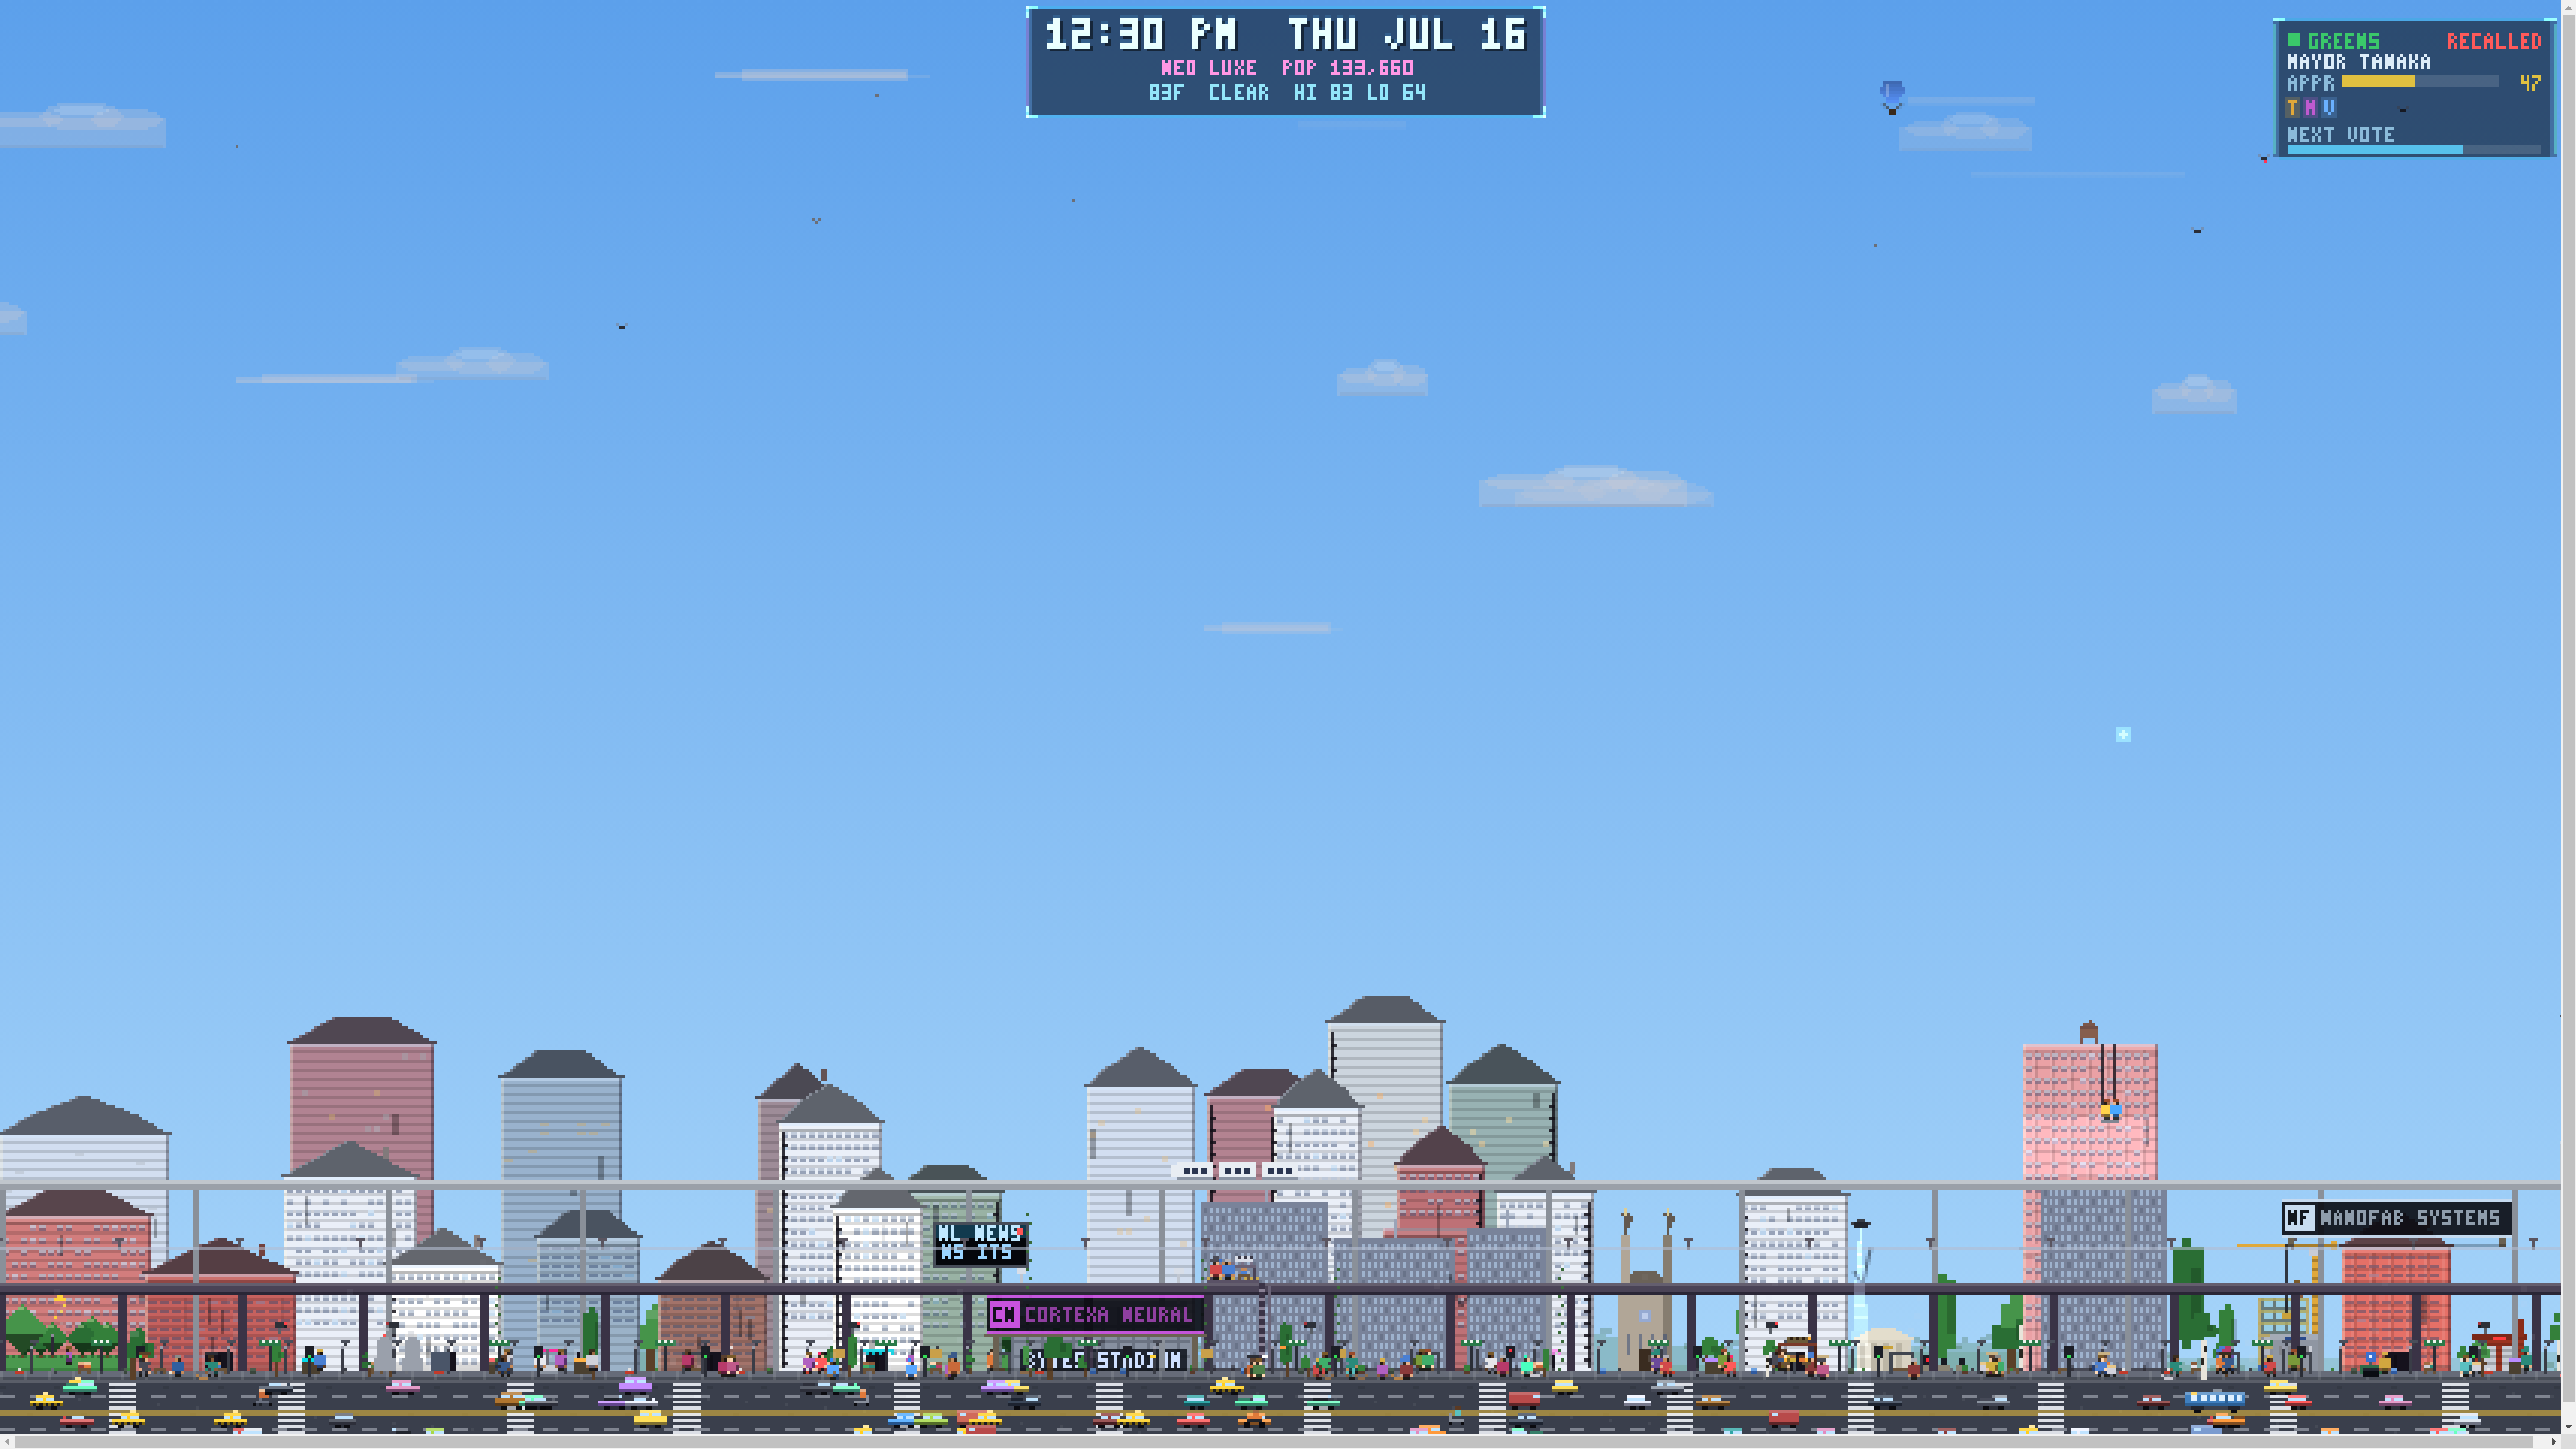
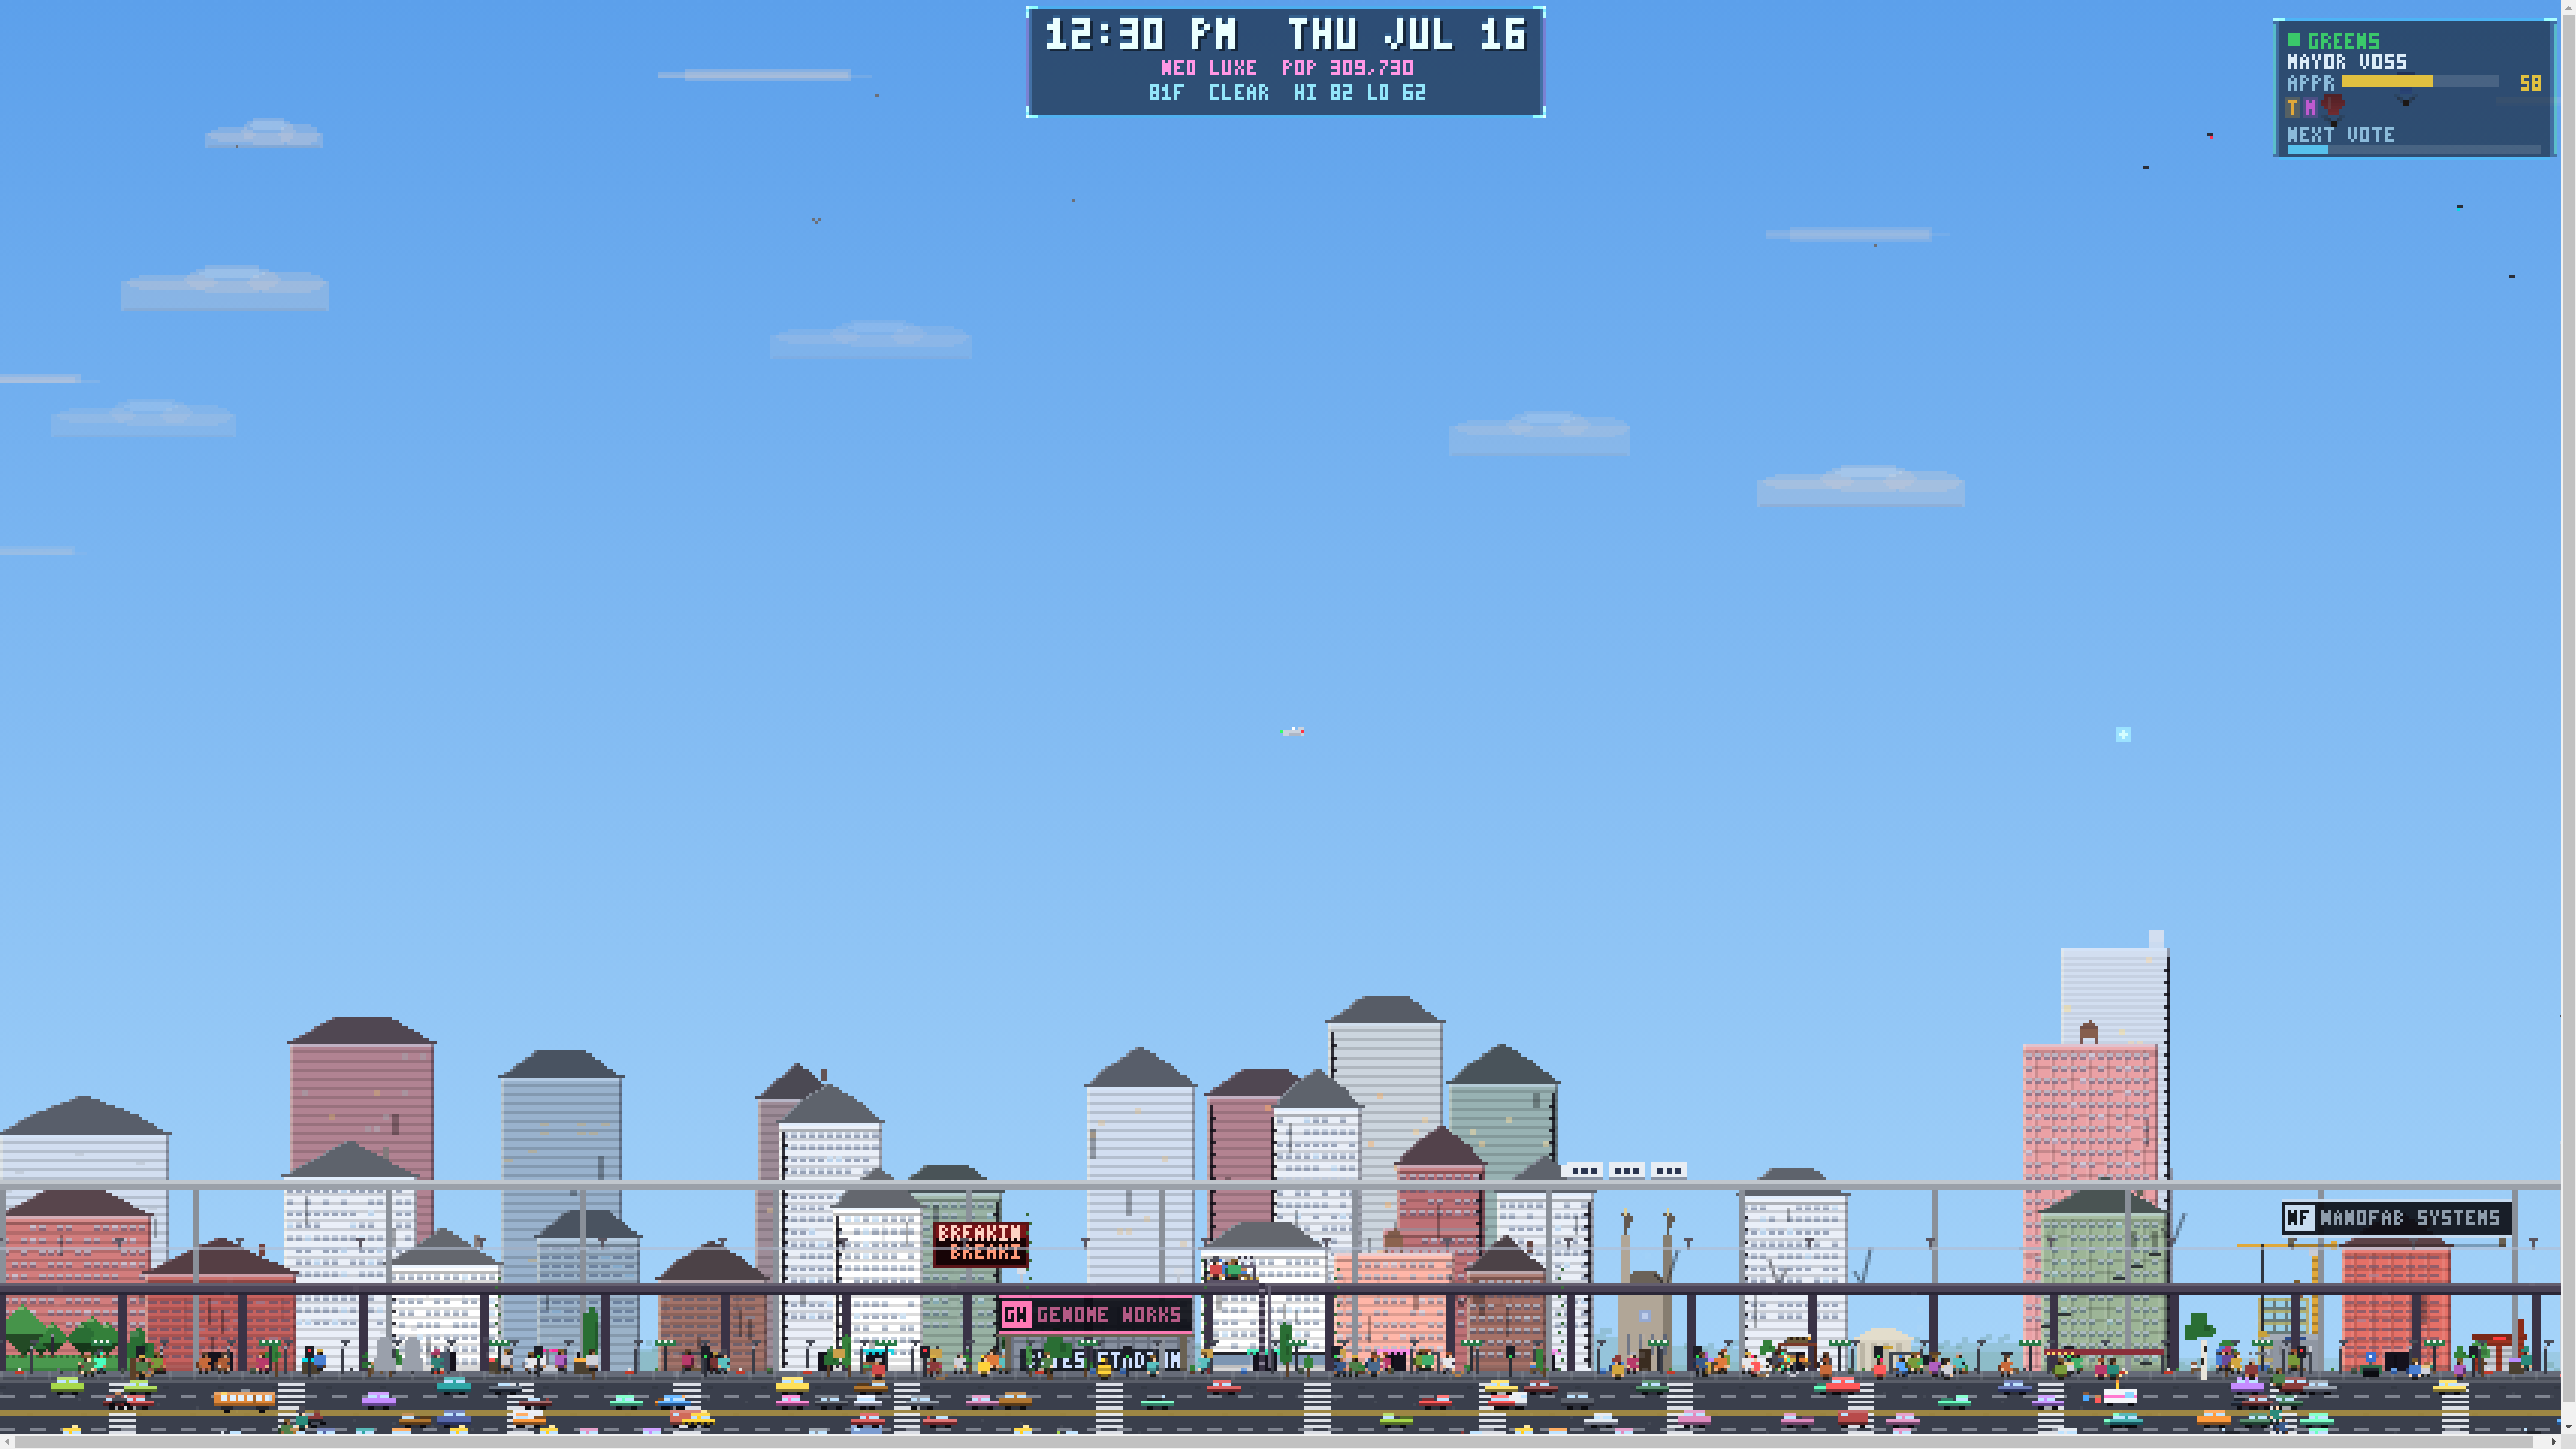
Buildings B1 BLEND: modern downtown core inside the New England town
Finding: the engine adapts architecture to location, and Norwich CT -> newengland ->
the WHOLE city was reskinned colonial (brick/cream/sage + pitched roofs on all bh<54),
which is why roofs repeated AND why dayMat/heroes were switched off at Nick's location.

Nick chose 'blend both':
- neColonial gate = (NE && not downtown && not entertainment): the colonial reskin +
  pitched roofs now apply to the TOWN districts only. Downtown + entertainment stay a
  modern glass core (dayMat + heroes + varied modern crowns) even in New England.
- hero gate no longer excludes NE; downtown is a modern core everywhere.
- Added ?probe=hero (harness) + HEROES console route to locate heroes/crowns precisely.

Exempting downtown/entertainment drops one r() per such building -> the city layout
intentionally re-rolls (expected for the look change). Verified: downtown day/night
(glass towers, deco/blade/step heroes w/ gilded cornices, neon night) + qml sweep
(34) SWEEP_OK + perf 9.2ms.

Claude-Session: https://claude.ai/code/session_01Fcpq7p4KAqg44eJBRLN5J2

diff --git a/desktop/renderer/city.js b/desktop/renderer/city.js
@@ -2029,8 +2029,12 @@ function makeLayer(seed,y0,baseHMin,baseHMax,layerK){
     var bseed=(r()*1e9)>>>0, winHue=(r()*winPal.length)|0;
     // REGION: New England reskins the walls to a colonial palette (barely any neon accent), and
     // marks light-walled builds as wood clapboard. Pitched roofs are chosen below.
+    // BLEND (Nick 2026-07-17): the colonial reskin applies to the TOWN districts only — the downtown +
+    // entertainment core stays a MODERN glass-tower city (heroes/landmarks/material colour) even in New
+    // England. So Norwich reads as brick-and-steeple neighbourhoods around a real metropolis skyline.
+    var neColonial=(REGION==="newengland" && d.name!=="downtown" && d.name!=="neon");
     var neClap=false, nePitch=false, accMix=(d.brick?0.06:0.10);
-    if(REGION==="newengland"){
+    if(neColonial){
       var nw=NE_WALLS[(r()*NE_WALLS.length)|0]; base=[nw[0],nw[1],nw[2]];
       neClap=(nw[0]+nw[1]+nw[2])>430;                        // light walls → wood clapboard siding
       accMix=0.03;                                           // colonial colours are muted
@@ -2059,9 +2063,15 @@ function makeLayer(seed,y0,baseHMin,baseHMax,layerK){
     // ---- CROWN from this district's palette (no spindly tops on short buildings) ----
     var crown=d.crowns[(r()*d.crowns.length)|0];
     if(bh<30 && (crown==="spire"||crown==="antenna"||crown==="blade")) crown=(r()<0.5?"flat":"tank");
-    if(REGION==="newengland" && bh < 54*KSP && crown!=="watertower"){  // low & mid-rise wear NE pitched roofs; tall
+    if(neColonial && bh < 54*KSP && crown!=="watertower"){  // low & mid-rise wear NE pitched roofs; tall
       var pr=(bseed>>>4)%3; crown=(pr===0?"gable":(pr===1?"gambrel":"hip")); nePitch=true;  // towers stay modern; brick
     }                                                                                       // midrises keep a wooden water tank
+    // ---- HERO / SIGNATURE TOWER: a rare, very tall downtown tower becomes a skyline LANDMARK — a guaranteed
+    //      ornate crown + a premium accent (beacon + crown trim). Chosen by a bseed HASH (no r() → the whole
+    //      city layout stays byte-stable). A handful per city anchor the skyline as focal points. ----
+    var heroK=((bseed*2246822519)>>>0)/4294967296;
+    var hero=(d.name==="downtown" && bh>=62*KSP && heroK<0.24);   // downtown is a modern core everywhere (incl. NE blend)
+    if(hero) crown=["deco","spire","step","blade"][(bseed>>>13)%4];   // ornate crowns anchor the skyline
     // ---- WINDOW SYSTEM from this district's palette ----
     var winLayout=d.layouts[(r()*d.layouts.length)|0];
     if(typeof FORCELAYOUT!=='undefined'&&FORCELAYOUT) winLayout=FORCELAYOUT;   // TEST hook: pin every building's window layout (harness ?layout=ribbon)
@@ -2069,7 +2079,8 @@ function makeLayer(seed,y0,baseHMin,baseHMax,layerK){
             segs:segs, crown:crown, winLayout:winLayout, topW:topW, topDx:topDx,
             c: mixc(base, acc, accMix), accent:acc, accent2:acc2, winP:winPal, winHue:winHue,
             glass:((winLayout==="corp"||winLayout==="ribbon")&&!(d.brick||neClap||nePitch)),   // reflective glass tower
-            dayMat:(REGION==="newengland"?null:dayMatFor(d.name,bseed)),   // this building's DAYTIME material colour (NE keeps colonial palette)
+            hero:hero,   // signature landmark tower (ornate crown + premium beacon/trim)
+            dayMat:(neColonial?null:dayMatFor(d.name,bseed)),   // DAYTIME material colour (colonial town keeps NE_WALLS; modern core gets it)
             nePitch:nePitch, clap:neClap,
             win:[], st:[], gl:[], roof:[],
             ledge:r()<d.ledge, ledC:(r()*NEON.length)|0,
@@ -3476,6 +3487,18 @@ function drawLayer(g,layer,L,now,fx,hol,haze){
     }
     var tX=bx+b.topDx, tW=b.topW;                            // top-segment (roof features attach here)
     drawCrown(g,b.crown,tX,top,tW,col,b.accent,L,now,night);
+    // HERO / SIGNATURE TOWER premium: a gilded cornice band under the ornate crown + a soft apex beacon at
+    // night → the tower reads as a deliberate skyline landmark, day and night.
+    if(b.hero && (layer===near||layer===mid)){
+      var hcC=mixc(b.accent,[255,228,150],0.5);                                   // gilded accent
+      g.fillStyle=rgba(hcC,(night>0.4?0.6:0.30*dayLit+0.08)); g.fillRect(tX,top,tW,1);       // crown-base cornice
+      g.fillStyle=rgba(hcC,(night>0.4?0.3:0.14*dayLit));      g.fillRect(tX,top+2,tW,1);      // a second, fainter trim line
+      if(night>0.35){ var hbp=0.5+0.5*Math.sin(now*0.0028+bx);                    // apex beacon — a pulsing landmark light
+        g.globalCompositeOperation="lighter";
+        g.fillStyle=rgba(b.accent2,0.7*hbp*night); g.fillRect(tX+(tW>>1)-1,top-1,3,2);
+        g.fillStyle=rgba(b.accent2,0.3*hbp*night); g.fillRect(tX+(tW>>1)-2,top-2,5,1);
+        g.globalCompositeOperation="source-over"; }
+    }
     // rooftop mechanicals (flat/step tops)
     for(var ri=0;ri<b.roof.length;ri++){ var rs=b.roof[ri], rX=tX+rs.x, rY=top-rs.h;
       g.fillStyle=L>0.5?"#2a2733":"#0b0912"; g.fillRect(rX,rY,rs.w,rs.h);

diff --git a/org.citylive.wallpaper/contents/js/city.js b/org.citylive.wallpaper/contents/js/city.js
@@ -2029,8 +2029,12 @@ function makeLayer(seed,y0,baseHMin,baseHMax,layerK){
     var bseed=(r()*1e9)>>>0, winHue=(r()*winPal.length)|0;
     // REGION: New England reskins the walls to a colonial palette (barely any neon accent), and
     // marks light-walled builds as wood clapboard. Pitched roofs are chosen below.
+    // BLEND (Nick 2026-07-17): the colonial reskin applies to the TOWN districts only — the downtown +
+    // entertainment core stays a MODERN glass-tower city (heroes/landmarks/material colour) even in New
+    // England. So Norwich reads as brick-and-steeple neighbourhoods around a real metropolis skyline.
+    var neColonial=(REGION==="newengland" && d.name!=="downtown" && d.name!=="neon");
     var neClap=false, nePitch=false, accMix=(d.brick?0.06:0.10);
-    if(REGION==="newengland"){
+    if(neColonial){
       var nw=NE_WALLS[(r()*NE_WALLS.length)|0]; base=[nw[0],nw[1],nw[2]];
       neClap=(nw[0]+nw[1]+nw[2])>430;                        // light walls → wood clapboard siding
       accMix=0.03;                                           // colonial colours are muted
@@ -2059,9 +2063,15 @@ function makeLayer(seed,y0,baseHMin,baseHMax,layerK){
     // ---- CROWN from this district's palette (no spindly tops on short buildings) ----
     var crown=d.crowns[(r()*d.crowns.length)|0];
     if(bh<30 && (crown==="spire"||crown==="antenna"||crown==="blade")) crown=(r()<0.5?"flat":"tank");
-    if(REGION==="newengland" && bh < 54*KSP && crown!=="watertower"){  // low & mid-rise wear NE pitched roofs; tall
+    if(neColonial && bh < 54*KSP && crown!=="watertower"){  // low & mid-rise wear NE pitched roofs; tall
       var pr=(bseed>>>4)%3; crown=(pr===0?"gable":(pr===1?"gambrel":"hip")); nePitch=true;  // towers stay modern; brick
     }                                                                                       // midrises keep a wooden water tank
+    // ---- HERO / SIGNATURE TOWER: a rare, very tall downtown tower becomes a skyline LANDMARK — a guaranteed
+    //      ornate crown + a premium accent (beacon + crown trim). Chosen by a bseed HASH (no r() → the whole
+    //      city layout stays byte-stable). A handful per city anchor the skyline as focal points. ----
+    var heroK=((bseed*2246822519)>>>0)/4294967296;
+    var hero=(d.name==="downtown" && bh>=62*KSP && heroK<0.24);   // downtown is a modern core everywhere (incl. NE blend)
+    if(hero) crown=["deco","spire","step","blade"][(bseed>>>13)%4];   // ornate crowns anchor the skyline
     // ---- WINDOW SYSTEM from this district's palette ----
     var winLayout=d.layouts[(r()*d.layouts.length)|0];
     if(typeof FORCELAYOUT!=='undefined'&&FORCELAYOUT) winLayout=FORCELAYOUT;   // TEST hook: pin every building's window layout (harness ?layout=ribbon)
@@ -2069,7 +2079,8 @@ function makeLayer(seed,y0,baseHMin,baseHMax,layerK){
             segs:segs, crown:crown, winLayout:winLayout, topW:topW, topDx:topDx,
             c: mixc(base, acc, accMix), accent:acc, accent2:acc2, winP:winPal, winHue:winHue,
             glass:((winLayout==="corp"||winLayout==="ribbon")&&!(d.brick||neClap||nePitch)),   // reflective glass tower
-            dayMat:(REGION==="newengland"?null:dayMatFor(d.name,bseed)),   // this building's DAYTIME material colour (NE keeps colonial palette)
+            hero:hero,   // signature landmark tower (ornate crown + premium beacon/trim)
+            dayMat:(neColonial?null:dayMatFor(d.name,bseed)),   // DAYTIME material colour (colonial town keeps NE_WALLS; modern core gets it)
             nePitch:nePitch, clap:neClap,
             win:[], st:[], gl:[], roof:[],
             ledge:r()<d.ledge, ledC:(r()*NEON.length)|0,
@@ -3476,6 +3487,18 @@ function drawLayer(g,layer,L,now,fx,hol,haze){
     }
     var tX=bx+b.topDx, tW=b.topW;                            // top-segment (roof features attach here)
     drawCrown(g,b.crown,tX,top,tW,col,b.accent,L,now,night);
+    // HERO / SIGNATURE TOWER premium: a gilded cornice band under the ornate crown + a soft apex beacon at
+    // night → the tower reads as a deliberate skyline landmark, day and night.
+    if(b.hero && (layer===near||layer===mid)){
+      var hcC=mixc(b.accent,[255,228,150],0.5);                                   // gilded accent
+      g.fillStyle=rgba(hcC,(night>0.4?0.6:0.30*dayLit+0.08)); g.fillRect(tX,top,tW,1);       // crown-base cornice
+      g.fillStyle=rgba(hcC,(night>0.4?0.3:0.14*dayLit));      g.fillRect(tX,top+2,tW,1);      // a second, fainter trim line
+      if(night>0.35){ var hbp=0.5+0.5*Math.sin(now*0.0028+bx);                    // apex beacon — a pulsing landmark light
+        g.globalCompositeOperation="lighter";
+        g.fillStyle=rgba(b.accent2,0.7*hbp*night); g.fillRect(tX+(tW>>1)-1,top-1,3,2);
+        g.fillStyle=rgba(b.accent2,0.3*hbp*night); g.fillRect(tX+(tW>>1)-2,top-2,5,1);
+        g.globalCompositeOperation="source-over"; }
+    }
     // rooftop mechanicals (flat/step tops)
     for(var ri=0;ri<b.roof.length;ri++){ var rs=b.roof[ri], rX=tX+rs.x, rY=top-rs.h;
       g.fillStyle=L>0.5?"#2a2733":"#0b0912"; g.fillRect(rX,rY,rs.w,rs.h);

diff --git a/phone/city.js b/phone/city.js
@@ -2029,8 +2029,12 @@ function makeLayer(seed,y0,baseHMin,baseHMax,layerK){
     var bseed=(r()*1e9)>>>0, winHue=(r()*winPal.length)|0;
     // REGION: New England reskins the walls to a colonial palette (barely any neon accent), and
     // marks light-walled builds as wood clapboard. Pitched roofs are chosen below.
+    // BLEND (Nick 2026-07-17): the colonial reskin applies to the TOWN districts only — the downtown +
+    // entertainment core stays a MODERN glass-tower city (heroes/landmarks/material colour) even in New
+    // England. So Norwich reads as brick-and-steeple neighbourhoods around a real metropolis skyline.
+    var neColonial=(REGION==="newengland" && d.name!=="downtown" && d.name!=="neon");
     var neClap=false, nePitch=false, accMix=(d.brick?0.06:0.10);
-    if(REGION==="newengland"){
+    if(neColonial){
       var nw=NE_WALLS[(r()*NE_WALLS.length)|0]; base=[nw[0],nw[1],nw[2]];
       neClap=(nw[0]+nw[1]+nw[2])>430;                        // light walls → wood clapboard siding
       accMix=0.03;                                           // colonial colours are muted
@@ -2059,9 +2063,15 @@ function makeLayer(seed,y0,baseHMin,baseHMax,layerK){
     // ---- CROWN from this district's palette (no spindly tops on short buildings) ----
     var crown=d.crowns[(r()*d.crowns.length)|0];
     if(bh<30 && (crown==="spire"||crown==="antenna"||crown==="blade")) crown=(r()<0.5?"flat":"tank");
-    if(REGION==="newengland" && bh < 54*KSP && crown!=="watertower"){  // low & mid-rise wear NE pitched roofs; tall
+    if(neColonial && bh < 54*KSP && crown!=="watertower"){  // low & mid-rise wear NE pitched roofs; tall
       var pr=(bseed>>>4)%3; crown=(pr===0?"gable":(pr===1?"gambrel":"hip")); nePitch=true;  // towers stay modern; brick
     }                                                                                       // midrises keep a wooden water tank
+    // ---- HERO / SIGNATURE TOWER: a rare, very tall downtown tower becomes a skyline LANDMARK — a guaranteed
+    //      ornate crown + a premium accent (beacon + crown trim). Chosen by a bseed HASH (no r() → the whole
+    //      city layout stays byte-stable). A handful per city anchor the skyline as focal points. ----
+    var heroK=((bseed*2246822519)>>>0)/4294967296;
+    var hero=(d.name==="downtown" && bh>=62*KSP && heroK<0.24);   // downtown is a modern core everywhere (incl. NE blend)
+    if(hero) crown=["deco","spire","step","blade"][(bseed>>>13)%4];   // ornate crowns anchor the skyline
     // ---- WINDOW SYSTEM from this district's palette ----
     var winLayout=d.layouts[(r()*d.layouts.length)|0];
     if(typeof FORCELAYOUT!=='undefined'&&FORCELAYOUT) winLayout=FORCELAYOUT;   // TEST hook: pin every building's window layout (harness ?layout=ribbon)
@@ -2069,7 +2079,8 @@ function makeLayer(seed,y0,baseHMin,baseHMax,layerK){
             segs:segs, crown:crown, winLayout:winLayout, topW:topW, topDx:topDx,
             c: mixc(base, acc, accMix), accent:acc, accent2:acc2, winP:winPal, winHue:winHue,
             glass:((winLayout==="corp"||winLayout==="ribbon")&&!(d.brick||neClap||nePitch)),   // reflective glass tower
-            dayMat:(REGION==="newengland"?null:dayMatFor(d.name,bseed)),   // this building's DAYTIME material colour (NE keeps colonial palette)
+            hero:hero,   // signature landmark tower (ornate crown + premium beacon/trim)
+            dayMat:(neColonial?null:dayMatFor(d.name,bseed)),   // DAYTIME material colour (colonial town keeps NE_WALLS; modern core gets it)
             nePitch:nePitch, clap:neClap,
             win:[], st:[], gl:[], roof:[],
             ledge:r()<d.ledge, ledC:(r()*NEON.length)|0,
@@ -3476,6 +3487,18 @@ function drawLayer(g,layer,L,now,fx,hol,haze){
     }
     var tX=bx+b.topDx, tW=b.topW;                            // top-segment (roof features attach here)
     drawCrown(g,b.crown,tX,top,tW,col,b.accent,L,now,night);
+    // HERO / SIGNATURE TOWER premium: a gilded cornice band under the ornate crown + a soft apex beacon at
+    // night → the tower reads as a deliberate skyline landmark, day and night.
+    if(b.hero && (layer===near||layer===mid)){
+      var hcC=mixc(b.accent,[255,228,150],0.5);                                   // gilded accent
+      g.fillStyle=rgba(hcC,(night>0.4?0.6:0.30*dayLit+0.08)); g.fillRect(tX,top,tW,1);       // crown-base cornice
+      g.fillStyle=rgba(hcC,(night>0.4?0.3:0.14*dayLit));      g.fillRect(tX,top+2,tW,1);      // a second, fainter trim line
+      if(night>0.35){ var hbp=0.5+0.5*Math.sin(now*0.0028+bx);                    // apex beacon — a pulsing landmark light
+        g.globalCompositeOperation="lighter";
+        g.fillStyle=rgba(b.accent2,0.7*hbp*night); g.fillRect(tX+(tW>>1)-1,top-1,3,2);
+        g.fillStyle=rgba(b.accent2,0.3*hbp*night); g.fillRect(tX+(tW>>1)-2,top-2,5,1);
+        g.globalCompositeOperation="source-over"; }
+    }
     // rooftop mechanicals (flat/step tops)
     for(var ri=0;ri<b.roof.length;ri++){ var rs=b.roof[ri], rX=tX+rs.x, rY=top-rs.h;
       g.fillStyle=L>0.5?"#2a2733":"#0b0912"; g.fillRect(rX,rY,rs.w,rs.h);

diff --git a/web/city.js b/web/city.js
@@ -2029,8 +2029,12 @@ function makeLayer(seed,y0,baseHMin,baseHMax,layerK){
     var bseed=(r()*1e9)>>>0, winHue=(r()*winPal.length)|0;
     // REGION: New England reskins the walls to a colonial palette (barely any neon accent), and
     // marks light-walled builds as wood clapboard. Pitched roofs are chosen below.
+    // BLEND (Nick 2026-07-17): the colonial reskin applies to the TOWN districts only — the downtown +
+    // entertainment core stays a MODERN glass-tower city (heroes/landmarks/material colour) even in New
+    // England. So Norwich reads as brick-and-steeple neighbourhoods around a real metropolis skyline.
+    var neColonial=(REGION==="newengland" && d.name!=="downtown" && d.name!=="neon");
     var neClap=false, nePitch=false, accMix=(d.brick?0.06:0.10);
-    if(REGION==="newengland"){
+    if(neColonial){
       var nw=NE_WALLS[(r()*NE_WALLS.length)|0]; base=[nw[0],nw[1],nw[2]];
       neClap=(nw[0]+nw[1]+nw[2])>430;                        // light walls → wood clapboard siding
       accMix=0.03;                                           // colonial colours are muted
@@ -2059,9 +2063,15 @@ function makeLayer(seed,y0,baseHMin,baseHMax,layerK){
     // ---- CROWN from this district's palette (no spindly tops on short buildings) ----
     var crown=d.crowns[(r()*d.crowns.length)|0];
     if(bh<30 && (crown==="spire"||crown==="antenna"||crown==="blade")) crown=(r()<0.5?"flat":"tank");
-    if(REGION==="newengland" && bh < 54*KSP && crown!=="watertower"){  // low & mid-rise wear NE pitched roofs; tall
+    if(neColonial && bh < 54*KSP && crown!=="watertower"){  // low & mid-rise wear NE pitched roofs; tall
       var pr=(bseed>>>4)%3; crown=(pr===0?"gable":(pr===1?"gambrel":"hip")); nePitch=true;  // towers stay modern; brick
     }                                                                                       // midrises keep a wooden water tank
+    // ---- HERO / SIGNATURE TOWER: a rare, very tall downtown tower becomes a skyline LANDMARK — a guaranteed
+    //      ornate crown + a premium accent (beacon + crown trim). Chosen by a bseed HASH (no r() → the whole
+    //      city layout stays byte-stable). A handful per city anchor the skyline as focal points. ----
+    var heroK=((bseed*2246822519)>>>0)/4294967296;
+    var hero=(d.name==="downtown" && bh>=62*KSP && heroK<0.24);   // downtown is a modern core everywhere (incl. NE blend)
+    if(hero) crown=["deco","spire","step","blade"][(bseed>>>13)%4];   // ornate crowns anchor the skyline
     // ---- WINDOW SYSTEM from this district's palette ----
     var winLayout=d.layouts[(r()*d.layouts.length)|0];
     if(typeof FORCELAYOUT!=='undefined'&&FORCELAYOUT) winLayout=FORCELAYOUT;   // TEST hook: pin every building's window layout (harness ?layout=ribbon)
@@ -2069,7 +2079,8 @@ function makeLayer(seed,y0,baseHMin,baseHMax,layerK){
             segs:segs, crown:crown, winLayout:winLayout, topW:topW, topDx:topDx,
             c: mixc(base, acc, accMix), accent:acc, accent2:acc2, winP:winPal, winHue:winHue,
             glass:((winLayout==="corp"||winLayout==="ribbon")&&!(d.brick||neClap||nePitch)),   // reflective glass tower
-            dayMat:(REGION==="newengland"?null:dayMatFor(d.name,bseed)),   // this building's DAYTIME material colour (NE keeps colonial palette)
+            hero:hero,   // signature landmark tower (ornate crown + premium beacon/trim)
+            dayMat:(neColonial?null:dayMatFor(d.name,bseed)),   // DAYTIME material colour (colonial town keeps NE_WALLS; modern core gets it)
             nePitch:nePitch, clap:neClap,
             win:[], st:[], gl:[], roof:[],
             ledge:r()<d.ledge, ledC:(r()*NEON.length)|0,
@@ -3476,6 +3487,18 @@ function drawLayer(g,layer,L,now,fx,hol,haze){
     }
     var tX=bx+b.topDx, tW=b.topW;                            // top-segment (roof features attach here)
     drawCrown(g,b.crown,tX,top,tW,col,b.accent,L,now,night);
+    // HERO / SIGNATURE TOWER premium: a gilded cornice band under the ornate crown + a soft apex beacon at
+    // night → the tower reads as a deliberate skyline landmark, day and night.
+    if(b.hero && (layer===near||layer===mid)){
+      var hcC=mixc(b.accent,[255,228,150],0.5);                                   // gilded accent
+      g.fillStyle=rgba(hcC,(night>0.4?0.6:0.30*dayLit+0.08)); g.fillRect(tX,top,tW,1);       // crown-base cornice
+      g.fillStyle=rgba(hcC,(night>0.4?0.3:0.14*dayLit));      g.fillRect(tX,top+2,tW,1);      // a second, fainter trim line
+      if(night>0.35){ var hbp=0.5+0.5*Math.sin(now*0.0028+bx);                    // apex beacon — a pulsing landmark light
+        g.globalCompositeOperation="lighter";
+        g.fillStyle=rgba(b.accent2,0.7*hbp*night); g.fillRect(tX+(tW>>1)-1,top-1,3,2);
+        g.fillStyle=rgba(b.accent2,0.3*hbp*night); g.fillRect(tX+(tW>>1)-2,top-2,5,1);
+        g.globalCompositeOperation="source-over"; }
+    }
     // rooftop mechanicals (flat/step tops)
     for(var ri=0;ri<b.roof.length;ri++){ var rs=b.roof[ri], rX=tX+rs.x, rY=top-rs.h;
       g.fillStyle=L>0.5?"#2a2733":"#0b0912"; g.fillRect(rX,rY,rs.w,rs.h);

diff --git a/desktop/kde-repro.html b/desktop/kde-repro.html
@@ -60,6 +60,11 @@ setTimeout(function(){ try{
       if(cc>=0&&cc<COLS&&rr>=0&&rr<ROWS) grid[rr][cc]++; }
     var art='\n'; for(var gr2=0;gr2<ROWS;gr2++){ var line=''; for(var gc2=0;gc2<COLS;gc2++){ var v=grid[gr2][gc2]; line+= v===0?'.':(v<2?':':(v<4?'o':'#')); } art+=line+'\n'; }
     console.log('MWGRID spine='+MWSPINE.length+' dabs='+MWDABS.length+' vis='+vis+' maxAlpha='+maxa.toFixed(3)+' lpK='+lpK.toFixed(3)+art); }
+  if(Q.get('probe')==='hero'){ var hs=[], dts=[];
+    [near,mid,far].forEach(function(ly,li){ (ly.blds||[]).forEach(function(b){
+      if(b.hero) hs.push((li===0?'N':li===1?'M':'F')+' x'+Math.round(b.x)+' h'+Math.round(b.h)+' '+b.crown+(b.bAge<=cityGrowth(rn).g?'':' UNBORN'));
+      if(b.district==='downtown'&&b.h>60) dts.push(Math.round(b.x)+':'+b.crown); }); });
+    console.log('HEROES '+hs.length+' -> '+hs.join(' | ')+'  ||  DOWNTOWN-TALL '+dts.join(', ')); }
   if(Q.get('probe')==='perf'){ var N=40, t0p=performance.now(); for(var pf=0;pf<N;pf++) draw(g); var dt=(performance.now()-t0p)/N;
     console.log('PERF avg draw() = '+dt.toFixed(2)+' ms/frame over '+N+' frames'); }
   document.title='WW='+WW+' SW='+SW+' WOFF='+WOFF+' liveEpi='+Math.round(apocEpiX(rn))+' liveXA='+Math.round(kwTitanX(rn,0))+' liveXB='+Math.round(kwTitanX(rn,1))+' apocMs='+Math.round(apocMs)+ex;

diff --git a/desktop/kde-repro.js b/desktop/kde-repro.js
@@ -8,7 +8,7 @@ const OUT = process.env.KROUT || path.join(__dirname, 'kde-repro.png');
 app.whenReady().then(() => {
   const win = new BrowserWindow({ width: 2560, height: 1440, show: false,
     webPreferences: { offscreen: true, contextIsolation: true, nodeIntegration: false } });
-  win.webContents.on('console-message', (_e, _l, msg) => { if (/^MWGRID|^MW:|^PERF|^PLANETS/.test(msg)) console.log(msg); });
+  win.webContents.on('console-message', (_e, _l, msg) => { if (/^MWGRID|^MW:|^PERF|^PLANETS|^HEROES/.test(msg)) console.log(msg); });
   win.loadFile(path.join(__dirname, 'kde-repro.html'), { search: Q });
   win.webContents.once('did-finish-load', () => {
     setTimeout(async () => {

diff --git a/docs/PLAN-buildings-v1.9.md b/docs/PLAN-buildings-v1.9.md
@@ -125,6 +125,27 @@ Growth: b.bAge birth-age; unborn skipped, borning = drawGrowSite. Windows precom
 ##   buildings by day — a real colourful city, not grey. VERIFIED: kde-repro day/dusk/night + perf 9.6ms +
 ##   QML no-try/catch sweep (34 conditions incl. all finales) SWEEP_OK. Show Nick → react (too saturated?).
 ##
+## BLEND + ROOFS (Nick 2026-07-17, AskUserQuestion): CRITICAL FINDING — the wallpaper ADAPTS architecture to
+## location, and Norwich CT → REGION="newengland" → the whole city was reskinned colonial (NE_WALLS brick/
+## cream/sage walls + gable/gambrel/hip PITCHED roofs on everything bh<54). That's why (a) roofs all looked
+## the same, and (b) my dayMat + hero work was BYPASSED at Nick's actual location (gated off for NE). The
+## colour in earlier renders came from NE_WALLS, not dayMat — so those two commits were effectively unverified
+## on Nick's machine until now.
+## Nick's decisions: LOOK = "BLEND BOTH" (NE low-rise character around a MODERN downtown of glass towers +
+## landmarks). ROOFS = ALL FOUR upgrades (more shapes · varied colours/materials · rooftop details · modern
+## crowns on tall ones).
+## - STEP A DONE (blend): neColonial = (NE && district≠downtown && ≠entertainment) — the colonial reskin +
+##   pitched roofs now apply to the TOWN districts only; downtown+entertainment stay a modern glass core with
+##   dayMat + heroes + varied modern crowns EVEN in New England. hero gate dropped its REGION!=="newengland"
+##   check (downtown is modern everywhere). NOTE: exempting downtown/entertainment removes one r() call for
+##   those buildings → the city layout INTENTIONALLY re-rolls (expected for this look change). Heroes are
+##   mid/far-layer background giants (near downtown caps below the 62*KSP hero height) and rise LAST (high
+##   bAge) — verified via new ?probe=hero. Downtown now shows glass towers + deco/blade/step/mansard/antenna/
+##   pagoda crowns + gilded-cornice heroes; night = a real neon metropolis. SWEEP_OK 34, perf 9.2ms.
+## - STEP B/C/D TODO (the actual "roofs look same" fix for the colonial town): varied roof COLOURS (slate/
+##   copper-green/red-shingle/black/tin), more roof SHAPES (mansard/saltbox/cross-gable/cupola/monitor/flat-
+##   parapet), rooftop DETAILS (chimneys/dormers/weathervanes/water tanks). Then re-render town + downtown.
+##
 ## STATUS  ⟵ UPDATE AS EXECUTED
 - [ ] B0 branch + plan + harness
 - [~] B1 structural realism — glass+articulation+DAY WINDOW PANES done; corp-sparse case + material colour TBD